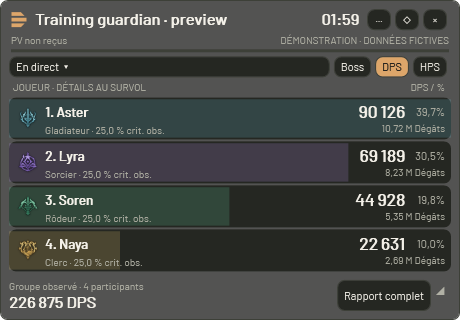
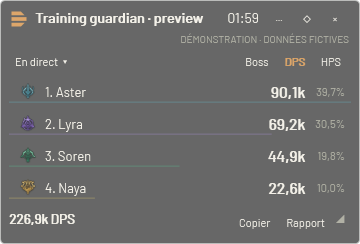
Actualise le README et illustre le détail des sorts

diff --git a/README.md b/README.md
@@ -20,6 +20,7 @@
 <p align="center">
   <a href="#installation">Installer</a> ·
   <a href="#aperçu">Voir l’interface</a> ·
+  <a href="#détail-des-sorts">Détail des sorts</a> ·
   <a href="#premier-combat">Premier combat</a> ·
   <a href="#questions-fréquentes">Questions fréquentes</a> ·
   <a href="https://github.com/Phobie53/DPSMeter/issues">Signaler un problème</a>
@@ -29,17 +30,51 @@
 
 ## Aperçu
 
-**Pendant le combat : l’essentiel, sans quitter le jeu.** Un overlay compact affiche le DPS, les dégâts et la contribution de chaque joueur observé. Survolez une ligne pour en savoir plus, cliquez pour explorer ses compétences.
+### Le classement en jeu
+
+**Pendant le combat : l’essentiel, sans quitter le jeu.** L’overlay discret affiche une ligne par joueur observé, avec son DPS et sa contribution. Sa hauteur s’adapte au classement et les valeurs sont abrégées pour rester lisibles. Survolez un joueur pour retrouver ses dégâts totaux, ses critiques observés et ses principales compétences.
 
 <p align="center">
-  <img src="docs/images/overlay-demo.png" alt="Démonstration de l’overlay : classement de quatre personnages fictifs, DPS et contribution" width="460">
+  <img src="docs/images/overlay-demo.png" alt="Overlay discret actuel : quatre personnages fictifs, DPS abrégé, contribution et boutons Copier et Rapport" width="360">
 </p>
 
-**Après le combat : comprenez ce qui a fait la différence.** Retrouvez le détail des compétences, les critiques observés, les soins et le rythme du combat dans un rapport conservé sur votre PC.
+### Détail des sorts
 
-![Rapport de démonstration : classement des personnages et détail des compétences du sorcier](docs/images/rapport-demo.png)
+**Cliquez sur un joueur : ses sorts remplacent le classement dans l’overlay.** Chaque ligne indique le DPS du sort et sa part dans les dégâts de ce joueur. La flèche **←** ramène au classement. Le total en bas reste celui de l’ensemble des participants observés.
 
-> Ces aperçus utilisent exclusivement des **données fictives de démonstration**. Ils ne représentent ni une performance réelle ni un classement de classes.
+<p align="center">
+  <img src="docs/images/sorts-demo.png" alt="Overlay ouvert sur Aster : deux sorts de démonstration avec leur DPS et leur contribution respective de 50,3 % et 49,7 %" width="460">
+</p>
+
+**Cliquez sur un sort ou sur Rapport pour ouvrir l’analyse complète.** Le joueur et le périmètre choisis dans l’overlay sont conservés. Dans l’application, un clic sur un autre joueur actualise le panneau **Compétences** ; le champ de recherche permet de retrouver un sort par son nom.
+
+![Rapport actuel : Lyra sélectionnée, dégâts et DPS de chaque sort, contribution, coups, ticks et critiques observés](docs/images/rapport-demo.png)
+
+| Pour chaque sort | Ce que vous lisez dans le rapport |
+| --- | --- |
+| **Dégâts** | Le total infligé par ce sort sur le périmètre sélectionné, ticks compris. |
+| **Contribution (%)** | La part de ce sort dans les dégâts du joueur sélectionné. |
+| **DPS** | Les dégâts du sort divisés par la durée du combat retenue pour ce périmètre. |
+| **Coups** | Le nombre d’impacts observés hors ticks ; ce n’est pas un compteur de lancements. |
+| **Ticks** | Le nombre d’événements périodiques observés, comptés séparément des coups. |
+| **Critiques (%)** | La proportion de coups critiques observés, hors ticks. |
+
+Dans cet exemple fictif, **Flamme de démonstration** représente **4 130 091 dégâts**, soit **50,2 %** des dégâts de Lyra et **34 707 DPS**. Les **50,0 % de critiques** concernent les 60 coups de ce sort, pas sa contribution au total.
+
+Le résumé au-dessus des sorts donne les dégâts, les coups, les critiques, le **plus gros impact** et l’**impact moyen** du joueur sur le périmètre affiché. Les deux dernières valeurs portent sur les événements reçus, ticks compris. L’onglet **Soins** propose la même lecture avec les soins bruts et le HPS. Dépliez **Rythme du combat** pour afficher la courbe des participants observés ou du joueur sélectionné.
+
+### Retrouver un combat
+
+**L’historique conserve vos rapports sur votre PC.** Recherchez un boss ou un joueur, filtrez les combats de boss, puis double-cliquez sur un combat ou sélectionnez **Rapport complet** pour retrouver le classement et les sorts. Vous pouvez consulter une archive pendant que la capture continue.
+
+<details>
+<summary><strong>Voir l’historique</strong></summary>
+
+![Historique de démonstration : recherche, filtre des combats de boss et ouverture du rapport complet](docs/images/historique-demo.png)
+
+</details>
+
+> Captures régénérées depuis la version **0.4.13**, en français et avec le thème Graphite. Elles utilisent exclusivement des **données fictives de démonstration**, y compris les noms de sorts et leurs icônes génériques. Elles ne représentent ni une performance réelle ni un classement de classes.
 
 | Pendant votre session | Pour analyser votre progression |
 | --- | --- |
@@ -47,6 +82,7 @@
 | **Boss ou toutes les cibles** — choisissez le périmètre | **Rythme du combat** — courbe du groupe observé ou d’un joueur |
 | **Overlay discret** — compact, déplaçable, clics traversants | **Historique** — recherche par boss ou joueur, filtre des combats de boss |
 | **Trois thèmes** — Graphite, Ivoire, Contraste élevé | **Import / export** — fichiers JSON v2, export sans les noms |
+| **Réduction automatique** — barre de titre après deux minutes hors combat | **Copier** — résumé compact dans la langue de l’interface, prêt pour le chat du jeu |
 
 ## Installation
 
@@ -81,8 +117,8 @@ La première installation de cette version doit être manuelle : les versions 0.
 
 1. **Lancez DPSMeter.** La capture et l’overlay démarrent automatiquement avec les réglages par défaut. Aucun redémarrage du jeu n’est nécessaire.
 2. **Jouez normalement.** Les données apparaissent lorsque des événements de combat sont reçus. Choisissez **DPS** ou **HPS** et le périmètre **Boss** ou **Toutes les cibles**.
-3. **Explorez une ligne.** Le survol donne un résumé ; un clic ouvre les compétences du joueur. **Rapport complet** ouvre l’analyse détaillée.
-4. **Retrouvez votre combat.** Après 12 secondes sans événement, il est archivé dans **Historique**. La capture continue pendant que vous consultez un ancien rapport.
+3. **Explorez une ligne.** Le survol donne un résumé ; un clic ouvre les compétences du joueur. Cliquez sur un sort ou sur **Rapport** pour ouvrir l’analyse détaillée.
+4. **Retrouvez votre combat.** Au repos, il est sauvegardé dans **Historique**. En monde ouvert, le délai est de 12 secondes sans activité personnelle pertinente si votre personnage est identifié ; le farm alentour ne le prolonge pas. Pour un boss engagé, les dégâts des participants sur ce boss maintiennent le combat, et une reprise après une phase silencieuse complète la même archive. La capture continue pendant que vous consultez un ancien rapport.
 
 Dans **Réglages**, choisissez la langue, le thème et, si vous le souhaitez, le nom de votre personnage. Ce nom s’applique à la prochaine capture.
 
@@ -96,8 +132,13 @@ Dans **Réglages**, choisissez la langue, le thème et, si vous le souhaitez, le
 | Cliquer dans le jeu à travers le meter | Activez le verrouillage **◇** ; masquez puis réaffichez avec **`Ctrl+Alt+M`** pour le déverrouiller |
 | Le repositionner | Ouvrez **···** pour les coins et le centre, ou **Réglages → Recentrer l’overlay** |
 | Consulter un ancien combat | Ouvrez le menu **En direct ▾** de l’overlay |
+| Voir les sorts d’un joueur | Cliquez sur sa ligne ; **←** ramène au classement |
+| Ouvrir le détail des dégâts par sort | Depuis les sorts, cliquez sur une ligne ou sur **Rapport** |
+| Copier le résumé du combat | Cliquez sur **Copier** dans l’overlay ou le rapport |
 
 La position et la taille sont mémorisées. Par défaut, l’overlay passe à **15 % d’opacité hors combat**, après 12 secondes sans événement, puis redevient lisible au combat ou au survol lorsqu’il est déverrouillé. La lecture d’un combat archivé reste lisible. L’option se règle dans **··· → Presque transparent hors combat**.
+
+Après **deux minutes hors combat**, il se réduit à sa barre de titre. Le survol ne le déplie pas : utilisez le bouton flèche pour deux nouvelles minutes de lecture, ou laissez le prochain combat restaurer sa taille. Les archives restent dépliées. Le menu **···** permet aussi de quitter la présentation discrète pour retrouver les lignes détaillées.
 
 ## Comprendre vos chiffres
 
@@ -109,7 +150,7 @@ La position et la taille sont mémorisées. Par défaut, l’overlay passe à **
 - **Participants :** joueurs identifiés dans le flux reçu, pas une composition de groupe confirmée. Des noms ou des PV peuvent manquer.
 - **Sources à identifier :** certaines sources anonymes restent séparées des joueurs. Leurs dégâts restent dans le total et leurs détails sont consultables ; aucun propriétaire n’est deviné.
 
-Les buffs, leur durée d’activité, les attaques de dos/de face, les doubles et les coups parfaits ne sont pas encore exposés. Une phase de 12 secondes sans événement peut séparer une rencontre en plusieurs combats. Une mise à jour du jeu peut nécessiter une adaptation du décodeur.
+Les buffs, leur durée d’activité, les attaques de dos/de face, les doubles et les coups parfaits ne sont pas encore exposés. Sans boss identifié, 12 secondes sans activité pertinente peuvent séparer une rencontre en plusieurs combats. Pour un boss, une mort ou un reset non reçu peut au contraire fusionner des tentatives ; une remontée complète de ses PV peut être prise pour un reset. La reprise d’un boss ne traverse pas le redémarrage du meter. Une mise à jour du jeu peut nécessiter une adaptation du décodeur.
 
 ## Questions fréquentes
 
@@ -127,7 +168,9 @@ Ils restent sur votre PC, dans `%LOCALAPPDATA%\DPSMeter\fights\`. Les préféren
 
 ### Puis-je partager un rapport ?
 
-Oui, avec **Exporter sans les noms** : l’export JSON v2 remplace les noms et identifiants des joueurs. Vous choisissez ensuite où partager ce fichier ; DPSMeter ne l’envoie pas en ligne. Les sauvegardes locales, elles, conservent les noms. L’import accepte le format v2 de ce projet et le marque non vérifié ; les fichiers NotMeter et ceux de l’ancien prototype v1 ne sont pas pris en charge.
+Oui. **Copier**, dans l’overlay ou le rapport, place dans le presse-papiers une ligne compacte avec la cible, la durée, le DPS ou HPS global et le classement, selon le filtre affiché et dans la langue de l’interface. Les valeurs sont abrégées en k/M et les noms sont conservés. Collez-la ensuite vous-même dans le chat du jeu.
+
+Pour transmettre le fichier complet, **Exporter sans les noms** produit un JSON v2 qui remplace les noms et identifiants des joueurs. Vous choisissez ensuite où partager ce fichier ; DPSMeter ne l’envoie pas en ligne. Les sauvegardes locales, elles, conservent les noms. L’import accepte le format v2 de ce projet et le marque non vérifié ; les fichiers NotMeter et ceux de l’ancien prototype v1 ne sont pas pris en charge.
 
 ### Que font « Pause » et « Nouveau combat » ?
 
